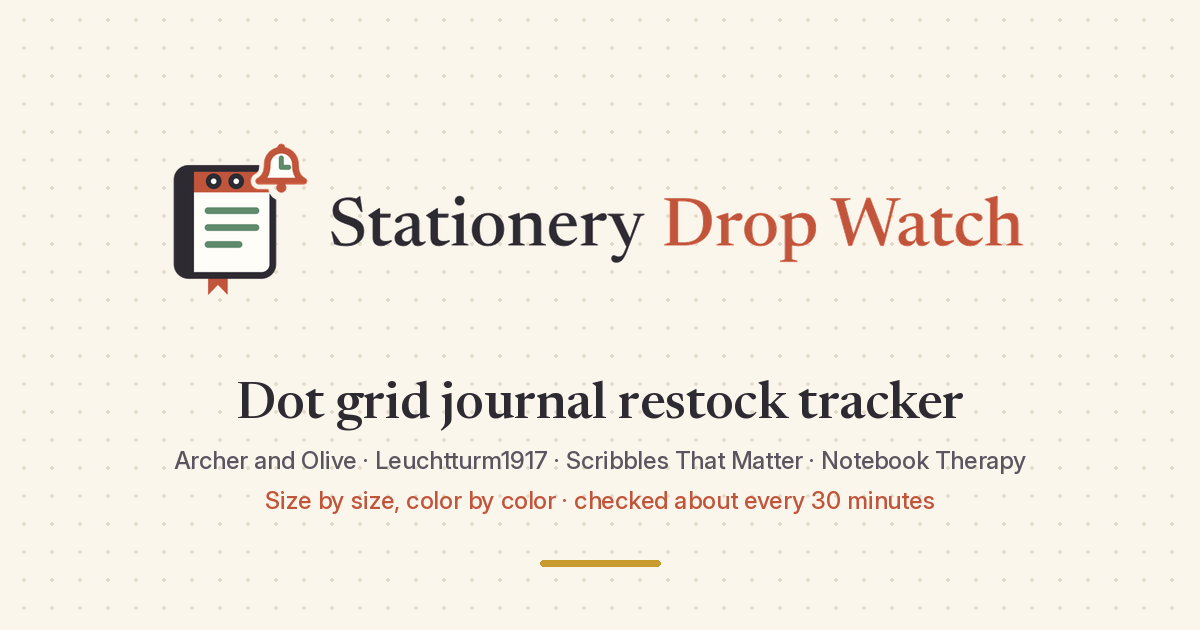
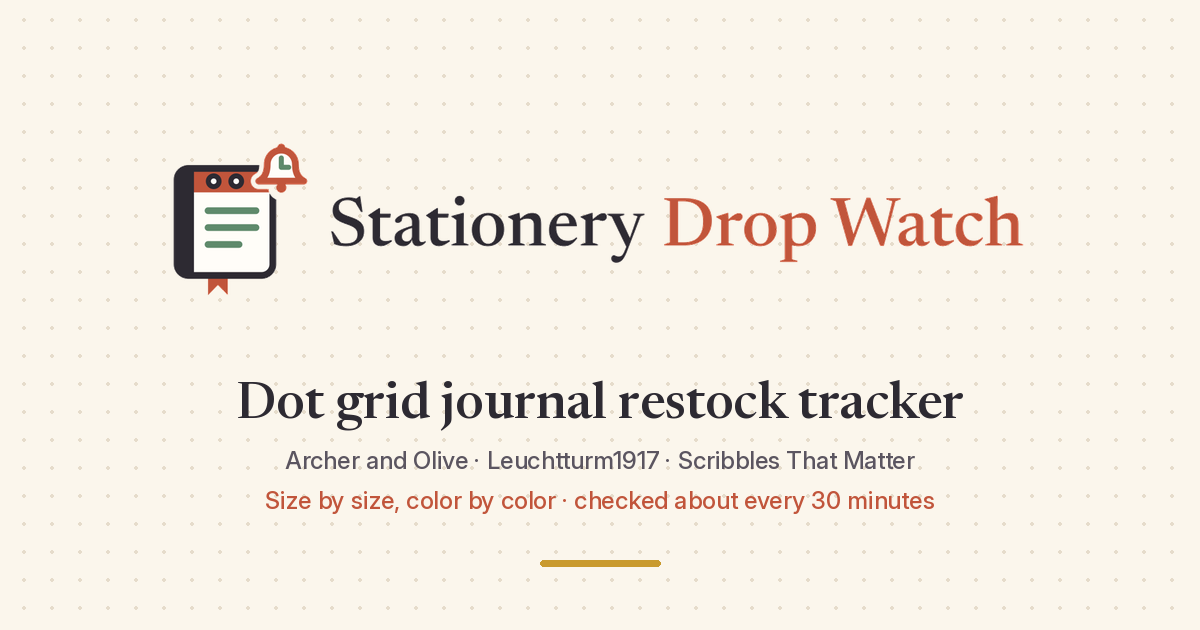
Notebook Therapy link-only everywhere: dot grid tracker intro, title, meta and share card/alt name only the makers we check; NT design pages become honest link-only pages; guides list says link only

Changed region(s): [[0.1542, 0.6937, 0.8633, 0.754]]

diff --git a/scripts/build_site.py b/scripts/build_site.py
@@ -235,6 +235,18 @@ def bare_shop_name(name):
 def dotgrid_brand_names():
     return names_and([bare_shop_name(s["name"]) for s in DOTGRID_SHOPS])
 
+def dotgrid_checked_brand_names():
+    """Brands whose own store we check. A link-only maker (Notebook Therapy since Nov 23, 2026) is left out."""
+    return names_and([bare_shop_name(s["name"]) for s in DOTGRID_SHOPS if not s.get("link_only")])
+
+def dotgrid_link_only_clause():
+    """'Notebook Therapy is listed as a link only: we don't check its stock.' or '' when every maker is checked."""
+    lo = [bare_shop_name(s["name"]) for s in DOTGRID_SHOPS if s.get("link_only")]
+    if not lo:
+        return ""
+    one = len(lo) == 1
+    return f"{names_and(lo)} {'is' if one else 'are'} listed as {'a link only' if one else 'links only'}: we don't check {'its' if one else 'their'} stock."
+
 def _dotgrid_coverage():
     """Maker-only brand names, mixed-coverage phrases, and independent-shop counts."""
     only, mixed, counts = [], [], {}
@@ -262,7 +274,7 @@ def dotgrid_meta_desc():
     n = leuchtturm_independent_count()
     shops = "shop" if n == 1 else "shops"
     return (
-        f"Are {dotgrid_brand_names()} in stock? Official stores, "
+        f"Are {dotgrid_checked_brand_names()} in stock right now? Official stores, "
         f"plus {n} independent {shops} for Leuchtturm1917."
     )
 
@@ -441,7 +453,8 @@ OG_ALT = ("Stationery Drop Watch: Never miss a stationery restock. "
           + (f"We check {OG_SHOPS} shops for you: " if OG_SHOPS else "Restock tracker for ")
           + f"Hobonichi Techo 2027, dot grid journals and limited-edition inks, checked {CHECK_FREQ}. Clip, the paper clip mascot, holds a magnifying glass.")
 OG_DOTGRID = BASE + "assets/brand/og-dotgrid.png"  # same script; used on the dot grid journaling page
-OG_DOTGRID_ALT = "Stationery Drop Watch: dot grid journal restock tracker for Archer and Olive, Leuchtturm1917, Scribbles That Matter and Notebook Therapy, checked " + CHECK_FREQ
+OG_DOTGRID_ALT = ("Stationery Drop Watch: dot grid journal restock tracker for " + dotgrid_checked_brand_names() + ", checked " + CHECK_FREQ
+                  + ("." + " " + dotgrid_link_only_clause() if dotgrid_link_only_clause() else ""))
 CONTENT_LASTMOD = "2026-11-12"  # floor for pages whose HTML changed in the Nov 12 refresh
 X_HANDLE = "@stationerydrop"
 LOCAL_LINK = re.compile(r'\b(href|src|srcset)="(?!https?:|mailto:|#|/|\.\./|data:)([^"]*)"')
@@ -1336,7 +1349,7 @@ def build_index():
         name, line = HUB_TRACKERS[k]
         if k == "dotgrid":
             # Short homepage blurb only. Official-store / independent-shop detail stays on the hub.
-            line = f"Flagship notebooks from {dotgrid_brand_names()}, plus Archer and Olive refills."
+            line = f"Flagship notebooks from {dotgrid_checked_brand_names()}, plus Archer and Olive refills."
         bits = [f"{N_SEC[k]} shops"]
         if st["preorder"]:
             bits.append(f'{st["preorder"]} on preorder')
@@ -1723,11 +1736,12 @@ GROUPS = [
                "To compare paper weight, pages and size across the four brands, see <a href=\"best-dot-grid-journals/\">best dot grid journals compared</a>.",
          # The Archer and Olive page keeps the old URL (AO_SLUG) and links back here.
          # The title, heading, nav, and breadcrumb name every maker we check.
-         title=f"Dot grid journal restock tracker: {dotgrid_brand_names()}",
+         title=f"Dot grid journal restock tracker: {dotgrid_checked_brand_names()}",
          desc=dotgrid_meta_desc(),
          og_image=OG_DOTGRID, og_alt=OG_DOTGRID_ALT,
          intro="Popular dot grid journals and limited editions sell out, and every brand only posts its own restocks. "
-               f"We track a focused set of flagship dot grid notebooks from {dotgrid_brand_names()}, size by size and color by color, plus Archer and Olive's dot grid refills. {dotgrid_where_checked()} "
+               f"We track a focused set of flagship dot grid notebooks from {dotgrid_checked_brand_names()}, size by size and color by color, plus Archer and Olive's dot grid refills. {dotgrid_where_checked()} "
+               + (dotgrid_link_only_clause() + " " if dotgrid_link_only_clause() else "") +
                "This page covers those dot grid notebooks and refills, not pens or other paper, and Hobonichi and our other sections have their own pages."),
     # Archer and Olive only. Keeps the old tracker URL, links to the four-brand tracker (DOTGRID_SLUG).
     dict(slug=AO_SLUG, short="Archer and Olive", product="Archer and Olive dot grid journal", section="dotgrid", aux=True,
@@ -2347,21 +2361,46 @@ def build_design(d, oe=None):
               + (f'<li><a href="{HOBO_TRACKER}#tracker">Hobonichi tracker (every listing)</a></li>' if sec == "hobonichi" else f'<li><a href="{parent["slug"]}/#tracker">Every listing on the {E(parent["short"])} page</a></li>'))
     intro = (f'{E(design_about(d))} This page shows its stock at every shop we track, checked {CHECK_FREQ}. '
              f'For every design, see the <a href="{parent["slug"]}/">{E(parent["short"])} restock page</a>.')
+    eyebrow_html = eyebrow(ey, nshops(shops), f"checked {CHECK_FREQ}")
+    facts_html = hero_facts(ls)
+    restock_card = f'<section class="card"><h2>Recent restocks</h2>{restock_html}</section>'
+    if not ls and lsl:
+        # Every shop that lists this design is link-only (Notebook Therapy since Nov 23, 2026): no stock claim at all.
+        lo_shops = names_and(sorted({l["store"] for l in lsl}))
+        one = len({l["store_id"] for l in lsl}) == 1
+        h1 = f'{d["full"]}: link only'
+        eyebrow_html = eyebrow(ey, "link only", "stock not checked")
+        intro = (f'{E(design_about(d))} We list it as a link only: we don\'t check its stock at {E(lo_shops)}, so no status is shown. '
+                 f'Open the shop\'s page to see what it has. For the designs we do check, see the <a href="{parent["slug"]}/">{E(parent["short"])} restock page</a>.')
+        facts_html = ""
+        restock_card = ""
+        table = (f'<section class="card group-sec" id="stock"><h2>Where to find it</h2>{list_filter(lsl, "Shop name")}<div class="table-wrap"><table class="stock">'
+                 f'<thead><tr><th>Shop</th><th>Status</th></tr></thead><tbody>{link_status_rows(lsl)}</tbody></table></div>{link_note(lsl)}'
+                 f'<p class="muted small card-empty" hidden>Nothing on this page matches those filters.</p></section>')
+        lo_answer = (f"We don't check. {lo_shops} {'is' if one else 'are'} listed as {'a link only' if one else 'links only'}, so no status is shown. "
+                     "Open the shop's page to see what it has.")
+        qa = [(f'Is {d["full"]} in stock?', lo_answer),
+              (f'Where can I buy {d["full"]}?', f"{lo_shops} {'sells' if one else 'sell'} it. The link above opens {'the shop' if one else 'each shop'}'s own page. We don't check {'its' if one else 'their'} stock.")]
+        faq_html = '<section class="card faq" id="faq"><h2>Questions</h2>' + "".join(
+            f'<details class="faq-item"><summary>{E(q)}</summary><p>{E(a)}</p></details>' for q, a in qa) + "</section>"
+        faq_ld = {"@context": "https://schema.org", "@type": "FAQPage", "mainEntity": [
+            {"@type": "Question", "name": q, "acceptedAnswer": {"@type": "Answer", "text": a}} for q, a in qa]}
+        sources_html = f'<section class="card" id="sources"><h2>Shop links</h2>{extra_html}</section>' if extra_html else ""
     body = f"""
 <div class="product-page">
 {crumbs(*hub_trail(parent), (parent["slug"] + "/", parent["short"]), (fname, d["name"]))}
 <section class="hero hero-compact">
-  {eyebrow(ey, nshops(shops), f"checked {CHECK_FREQ}")}
+  {eyebrow_html}
   <h1>{E(h1)}</h1>
   <p class="lede">{intro}</p>
   {thanks}
-  {hero_facts(ls)}
+  {facts_html}
   {signup_for(section=sec)}
 </section>
 <div class="layout">
   <div class="main-col">
     <div class="m-lead">{table}</div>
-    <section class="card"><h2>Recent restocks</h2>{restock_html}</section>
+    {restock_card}
     {faq_html}
     {sources_html}
   </div>
@@ -2372,12 +2411,15 @@ def build_design(d, oe=None):
 </div>
 {signup_for(section=sec, placement="bottom")}
 </div>"""
-    items = {"@context": "https://schema.org", "@type": "ItemList", "name": h1.replace(" restock tracker", "") + ": listings we track",
+    items = {"@context": "https://schema.org", "@type": "ItemList", "name": h1.replace(" restock tracker", "").replace(": link only", "") + (": listings we track" if ls or not lsl else ": shop links (stock not checked)"),
              "numberOfItems": len(ls), "itemListElement": [
                  {"@type": "ListItem", "position": i + 1, "name": f"{l.get('title') or l['label']} at {l['store']}", "url": l["url"]}
                  for i, l in enumerate(sorted(ls, key=lambda l: l["store"]))]}
     title = design_seo_title(d)
     desc = design_seo_desc(d, shops)
+    if not ls and lsl:
+        title = f'{d["name"]} · link only'
+        desc = f"{d['name']}: we list it as a link only and don't check its stock. Open the shop's own page to see what it has."[:DESC_LIMIT]
     return fname, page(fname, title, desc, body, ld=(crumbs_ld(*hub_trail(parent), (parent["slug"] + "/", parent["short"]), (fname, d["name"])), items, faq_ld),
                        og_image=parent.get("og_image", OG_IMAGE), og_alt=parent.get("og_alt", OG_ALT))
 
@@ -2410,7 +2452,7 @@ FAQ = [
 ]
 
 FAQ_TRACKS = {  # one sentence per live section for "What do you track?"
-    "dotgrid": "On a separate dot grid journals page, we track a focused set of flagship dot grid notebooks from {dg}, size by size and color by color, plus Archer and Olive's dot grid refills.",
+    "dotgrid": "On a separate dot grid journals page, we track a focused set of flagship dot grid notebooks from {dg}, size by size and color by color, plus Archer and Olive's dot grid refills.{dg_lo}",
 }
 
 HOBO_NOTE_Q = "Where are launch dates and how restocks usually go?"
@@ -2468,8 +2510,8 @@ def faq_block(only=None, sid="faq"):
         by_q = dict(answers)
         pairs = [(q, by_q[q]) for q in only]
     unchecked = link_only_clause()
-    qa = [(q, a.format(n=n, nh=N_HOBO, secs=secs, tracks=tracks.format(dg=dotgrid_brand_names()), shop=url_for("shop/"), unchecked=unchecked, terms="Terms of Use (" + url_for("terms/") + ")"),
-           E(a).format(n=n, nh=N_HOBO, secs=E(secs), tracks=E(tracks.format(dg=dotgrid_brand_names())), shop=f'<a href="shop/">{E(SHOP_NAME.lower())}</a>', unchecked=E(unchecked), terms='<a href="terms/">Terms of Use</a>')) for q, a in pairs]
+    qa = [(q, a.format(n=n, nh=N_HOBO, secs=secs, tracks=tracks.format(dg=dotgrid_checked_brand_names(), dg_lo=(" " + dotgrid_link_only_clause() if dotgrid_link_only_clause() else "")), shop=url_for("shop/"), unchecked=unchecked, terms="Terms of Use (" + url_for("terms/") + ")"),
+           E(a).format(n=n, nh=N_HOBO, secs=E(secs), tracks=E(tracks.format(dg=dotgrid_checked_brand_names(), dg_lo=(" " + dotgrid_link_only_clause() if dotgrid_link_only_clause() else ""))), shop=f'<a href="shop/">{E(SHOP_NAME.lower())}</a>', unchecked=E(unchecked), terms='<a href="terms/">Terms of Use</a>')) for q, a in pairs]
     html_ = "".join(f"<details class=\"faq-item\"><summary>{E(q)}</summary><p>{h}</p></details>" for q, a, h in qa)
     ld = {"@context": "https://schema.org", "@type": "FAQPage", "mainEntity": [
         {"@type": "Question", "name": q, "acceptedAnswer": {"@type": "Answer", "text": a}} for q, a, h in qa]}
@@ -2572,7 +2614,7 @@ GUIDE_BLURBS = {WTB_SLUG + "/": "Which shops have each 2027 Original A6, Cousin 
                 VS_SLUG + "/": "Size, weight, daily vs weekly layout and pages for the three most popular Hobonichi books, from Hobonichi's own specs, and who each one suits.",
                 JAN_APR_SLUG + "/": "Hobonichi's April-start (Spring) techo comes in fewer versions than the January-start edition and goes on sale on February 1.",
                 "hobonichi-2027/": "When the 2027 planners launched, the October wave, and when restocks usually land, with sources.",
-                DG_GUIDE_SLUG + "/": "Archer and Olive vs Leuchtturm1917 vs Scribbles That Matter vs Notebook Therapy: paper gsm, pages, size and features from each maker's own page, with live stock.",
+                DG_GUIDE_SLUG + "/": "Archer and Olive vs Leuchtturm1917 vs Scribbles That Matter vs Notebook Therapy: paper gsm, pages, size and features from each maker's own page, with live stock where we check it.",
                 "holiday-stationery-gift-guide-2026/": "Hobonichi, Leuchtturm1917, Archer and Olive and other dot grid gifts, each with live stock from our last check, plus planners and printables we make."}  # last copy change on the guide pages (sitemap lastmod floor)
 H_SRC = {  # official Hobonichi pages used for product facts
     "orig": ("https://www.1101.com/store/techo/en/2027/pc/detail_cover/ob27_jan_en/", "English Original Book A6 (2027), specifications"),
@@ -2600,7 +2642,7 @@ def design_index_block():
         ds = [d for d in DESIGNS if next(g_sec(g) for g in GROUPS if g["slug"] == d["parent"]) == k]
         if ds:
             out.append(f'<h3>{E(t)}</h3><ul class="link-list">' + "".join(
-                f'<li><a href="{design_fname(d)}">{E(d["full"])}</a> <span class="muted small">· {E(count_line(design_listings(d)))}</span></li>' for d in ds) + "</ul>")
+                f'<li><a href="{design_fname(d)}">{E(d["full"])}</a> <span class="muted small">· {E(count_line(design_listings(d)) if design_listings(d) or not link_listings(d["match"]) else "link only, stock not checked")}</span></li>' for d in ds) + "</ul>")
     return f'<section class="card" id="design-pages"><h2>Restock pages for single designs</h2><p class="muted small">{len(DESIGNS)} pages, one per planner or journal design we track. Counts come from the same checks as the trackers.</p>{"".join(out)}</section>'
 
 def _fmt_head(icon, label):

diff --git a/tests/test_link_only_laywines_nt_minimaru_takenote.py b/tests/test_link_only_laywines_nt_minimaru_takenote.py
@@ -77,6 +77,22 @@ class LinkOnlyAndNewShopsTests(unittest.TestCase):
         self.assertIn("link only: we don't check its stock", guide)
         self.assertIn("Notebook Therapy is listed as a link only: we don't check its stock.", guide)
 
+    def test_dot_grid_tracker_share_alt_and_design_pages_say_link_only(self):
+        import html
+        self.assertNotIn("Notebook Therapy,", site.OG_DOTGRID_ALT)
+        self.assertIn("Notebook Therapy is listed as a link only", site.OG_DOTGRID_ALT)
+        self.assertNotIn("Notebook Therapy", site.dotgrid_meta_desc())
+        group = next(g for g in site.GROUPS if g.get("section") == "dotgrid")
+        doc = html.unescape(site.build_group(group, {})[1])
+        self.assertNotIn("from Archer and Olive, Leuchtturm1917, Scribbles That Matter and Notebook Therapy", doc)
+        for d in site.DESIGNS:
+            if d["slug"].startswith("notebook-therapy-"):
+                page = html.unescape(site.build_design(d)[1])
+                self.assertIn(": link only", page)
+                self.assertIn("we don't check its stock", page)
+                for bad in ("This page shows its stock", "Tracking started", "Recent restocks", "listings we track", "Statuses come from"):
+                    self.assertNotIn(bad, page, (d["slug"], bad))
+
 
 if __name__ == "__main__":
     unittest.main()

diff --git a/scripts/brand/make_og.py b/scripts/brand/make_og.py
@@ -102,5 +102,5 @@ sys.path.insert(0, os.path.join(ROOT, "scripts"))
 import build_site  # noqa: E402  (module import only: reads the data files, writes nothing)
 default_card("og-image.png", build_site.N_STORES)
 card("og-dotgrid.png", [("Dot grid journal restock tracker", f1, INK, 66),
-                        ("Archer and Olive · Leuchtturm1917 · Scribbles That Matter · Notebook Therapy", f3, INK2, 40),
+                        (" · ".join(build_site.bare_shop_name(x["name"]) for x in build_site.DOTGRID_SHOPS if not x.get("link_only")), f3, INK2, 40),  # makers we check (Notebook Therapy is link-only since Nov 23, 2026)
                         ("Size by size, color by color · " + FREQ, f3, TERRA, 0)])

diff --git a/tests/test_brand_first_impression_fixes.py b/tests/test_brand_first_impression_fixes.py
@@ -139,5 +139,6 @@ class DotGridCopyAndOfficialTests(unittest.TestCase):
         self.assertIn("Notebook Therapy (official)", text)
         # Brand lists in the lede stay uncluttered.
         lede = re.search(r'<p class="lede">(.*?)</p>', doc, re.S).group(1)
-        self.assertIn("Archer and Olive, Leuchtturm1917, Scribbles That Matter and Notebook Therapy", html.unescape(lede))
+        self.assertIn("Archer and Olive, Leuchtturm1917 and Scribbles That Matter", html.unescape(lede))  # makers we check
+        self.assertIn("Notebook Therapy is listed as a link only: we don't check its stock.", html.unescape(lede))  # since Nov 23, 2026
         self.assertNotIn("(official)", lede)

diff --git a/tests/test_audit_polish.py b/tests/test_audit_polish.py
@@ -66,7 +66,7 @@ class AuditPolishTests(unittest.TestCase):
         self.assertIn("Archer and Olive", blurb)
         self.assertIn("Leuchtturm1917", blurb)
         self.assertIn("Scribbles That Matter", blurb)
-        self.assertIn("Notebook Therapy", blurb)
+        self.assertNotIn("Notebook Therapy", blurb)  # link-only since Nov 23, 2026: not among the makers we check
         self.assertIn("Archer and Olive refills", blurb)
         self.assertNotIn("We check", blurb)
         self.assertNotIn("official", blurb.lower())
